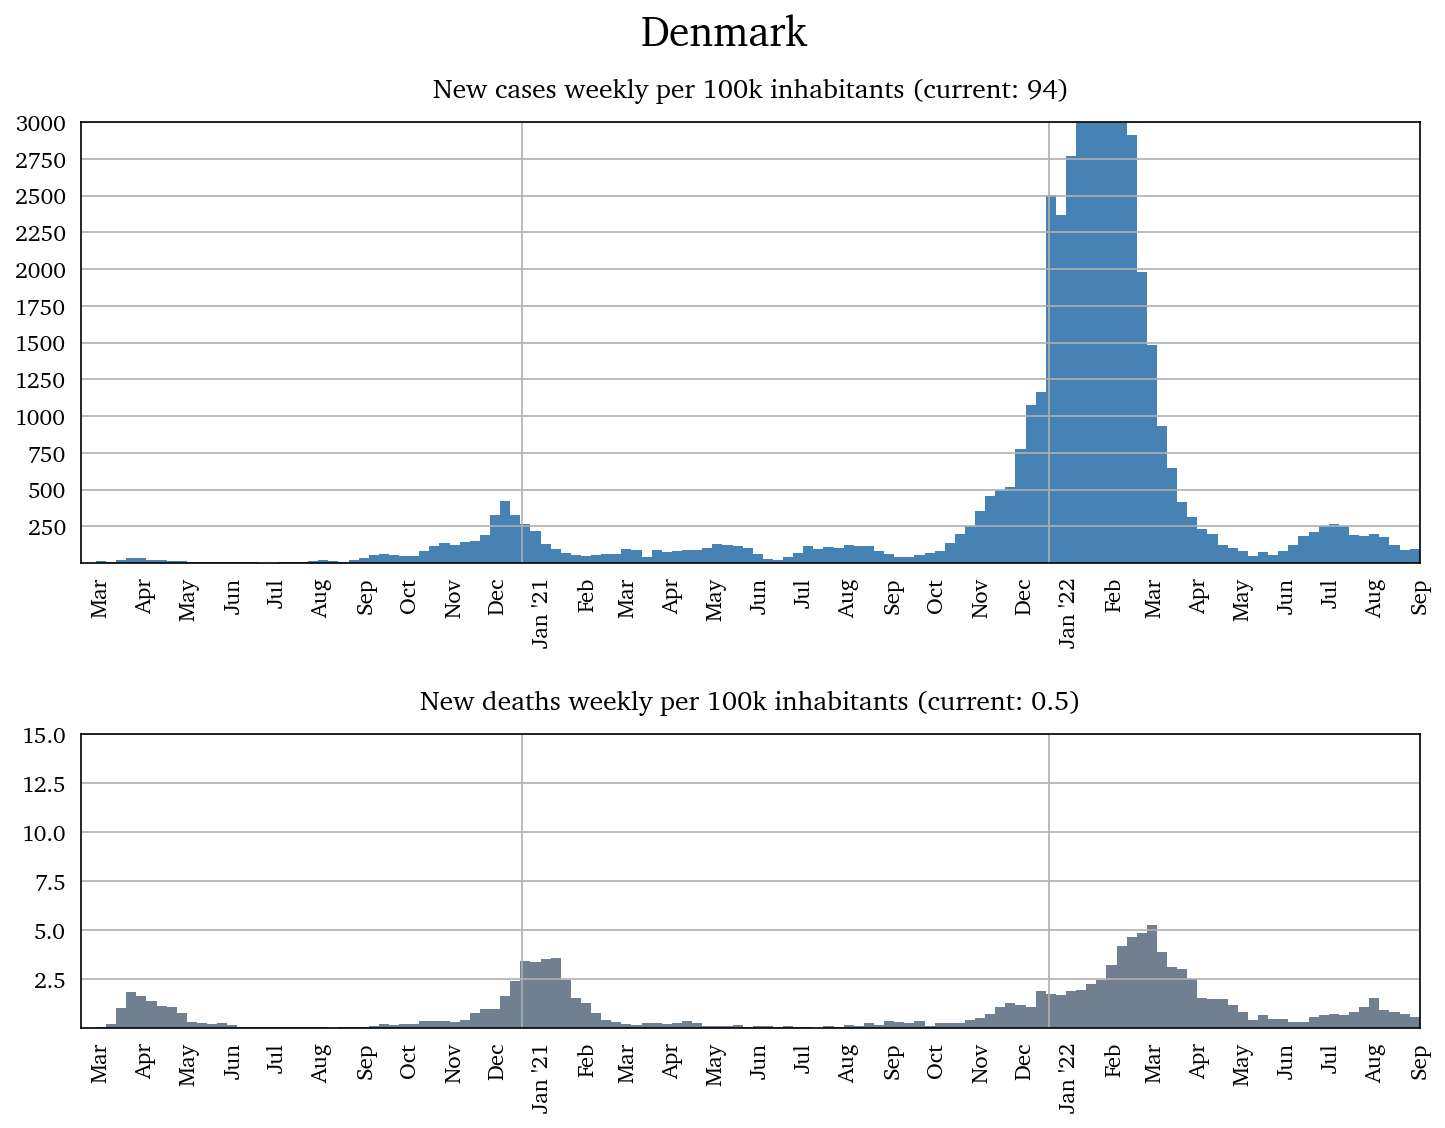
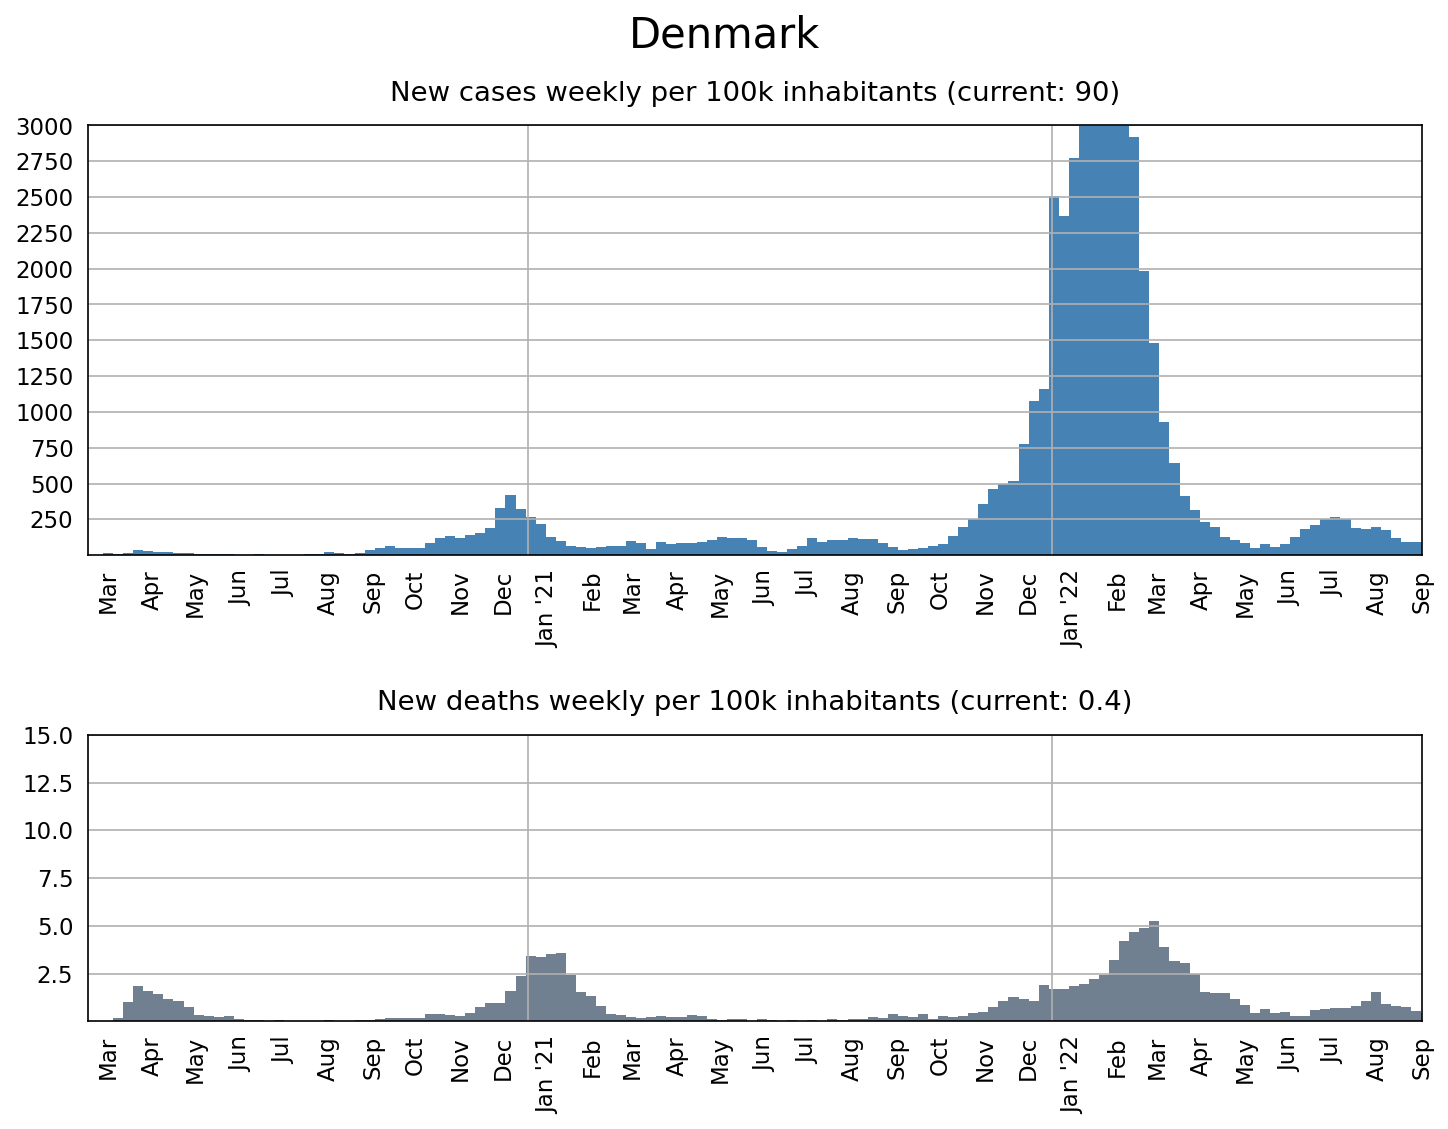
Deploying to gh-pages from @ miskosz/covid-weekly@c33ac9bc959517ddc2b91d329538e15d1db54968 🚀

Changed region(s): [[0.0, 0.0, 0.9965, 0.9929]]

diff --git a/index.html b/index.html
@@ -30,7 +30,7 @@
     </p>
 
     <p>
-    The graphs show data until <strong>Sunday, September 11 2022</strong> sourced
+    The graphs show data until <strong>Sunday, September 18 2022</strong> sourced
     from <a href="https://github.com/CSSEGISandData/COVID-19">Johns Hopkins University.</a>
     </p>
 
@@ -44,93 +44,16 @@
 <h3 id='index'>Countries</h3>
 <div id='scroll'><a href='#index'>Back to index</a></div>
 <div id='country-list'>
-<a href='#ALB'>Albania</a><br />
-<a href='#AUT'>Austria</a><br />
-<a href='#BLR'>Belarus</a><br />
-<a href='#BEL'>Belgium</a><br />
-<a href='#BIH'>Bosnia and Herzegovina</a><br />
-<a href='#BGR'>Bulgaria</a><br />
-<a href='#HRV'>Croatia</a><br />
-<a href='#CZE'>Czechia</a><br />
 <a href='#DNK'>Denmark</a><br />
-<a href='#EST'>Estonia</a><br />
 <a href='#FIN'>Finland</a><br />
-<a href='#FRA'>France</a><br />
-<a href='#DEU'>Germany</a><br />
-<a href='#GRC'>Greece</a><br />
-<a href='#HUN'>Hungary</a><br />
-<a href='#ISL'>Iceland</a><br />
-<a href='#IRL'>Ireland</a><br />
-<a href='#ITA'>Italy</a><br />
-<a href='#LVA'>Latvia</a><br />
-<a href='#LTU'>Lithuania</a><br />
-<a href='#LUX'>Luxembourg</a><br />
-<a href='#MLT'>Malta</a><br />
-<a href='#MDA'>Moldova</a><br />
-<a href='#MNE'>Montenegro</a><br />
-<a href='#NLD'>Netherlands</a><br />
-<a href='#MKD'>North Macedonia</a><br />
-<a href='#NOR'>Norway</a><br />
-<a href='#POL'>Poland</a><br />
-<a href='#PRT'>Portugal</a><br />
-<a href='#ROU'>Romania</a><br />
-<a href='#SRB'>Serbia</a><br />
-<a href='#SVK'>Slovakia</a><br />
-<a href='#SVN'>Slovenia</a><br />
-<a href='#ESP'>Spain</a><br />
-<a href='#SWE'>Sweden</a><br />
-<a href='#CHE'>Switzerland</a><br />
-<a href='#UKR'>Ukraine</a><br />
-<a href='#GBR'>United Kingdom</a><br />
 </div>
 <h2>Northern Europe</h2>
 <a name='DNK'><img src=./plots/DNK.png /></a><br />
 <a name='FIN'><img src=./plots/FIN.png /></a><br />
-<a name='ISL'><img src=./plots/ISL.png /></a><br />
-<a name='NOR'><img src=./plots/NOR.png /></a><br />
-<a name='SWE'><img src=./plots/SWE.png /></a><br />
-<h2>Western Europe</h2>
-<a name='BEL'><img src=./plots/BEL.png /></a><br />
-<a name='FRA'><img src=./plots/FRA.png /></a><br />
-<a name='IRL'><img src=./plots/IRL.png /></a><br />
-<a name='LUX'><img src=./plots/LUX.png /></a><br />
-<a name='NLD'><img src=./plots/NLD.png /></a><br />
-<a name='GBR'><img src=./plots/GBR.png /></a><br />
-<h2>Central Europe</h2>
-<a name='AUT'><img src=./plots/AUT.png /></a><br />
-<a name='CZE'><img src=./plots/CZE.png /></a><br />
-<a name='DEU'><img src=./plots/DEU.png /></a><br />
-<a name='HUN'><img src=./plots/HUN.png /></a><br />
-<a name='POL'><img src=./plots/POL.png /></a><br />
-<a name='SVK'><img src=./plots/SVK.png /></a><br />
-<a name='SVN'><img src=./plots/SVN.png /></a><br />
-<a name='CHE'><img src=./plots/CHE.png /></a><br />
-<h2>Eastern Europe</h2>
-<a name='BLR'><img src=./plots/BLR.png /></a><br />
-<a name='EST'><img src=./plots/EST.png /></a><br />
-<a name='LVA'><img src=./plots/LVA.png /></a><br />
-<a name='LTU'><img src=./plots/LTU.png /></a><br />
-<a name='MDA'><img src=./plots/MDA.png /></a><br />
-<a name='UKR'><img src=./plots/UKR.png /></a><br />
-<h2>Southern and Southwestern Europe</h2>
-<a name='GRC'><img src=./plots/GRC.png /></a><br />
-<a name='ITA'><img src=./plots/ITA.png /></a><br />
-<a name='MLT'><img src=./plots/MLT.png /></a><br />
-<a name='PRT'><img src=./plots/PRT.png /></a><br />
-<a name='ESP'><img src=./plots/ESP.png /></a><br />
-<h2>Southeastern Europe</h2>
-<a name='ALB'><img src=./plots/ALB.png /></a><br />
-<a name='BIH'><img src=./plots/BIH.png /></a><br />
-<a name='BGR'><img src=./plots/BGR.png /></a><br />
-<a name='HRV'><img src=./plots/HRV.png /></a><br />
-<a name='MNE'><img src=./plots/MNE.png /></a><br />
-<a name='MKD'><img src=./plots/MKD.png /></a><br />
-<a name='ROU'><img src=./plots/ROU.png /></a><br />
-<a name='SRB'><img src=./plots/SRB.png /></a><br />
 
     <footer>
     Made by Michal with matplotlib and pandas.<br />
-    Last updated 09/12/2022 20:52 UTC.
+    Last updated 09/24/2022 20:04 UTC.
     </footer>
     
         <script>
